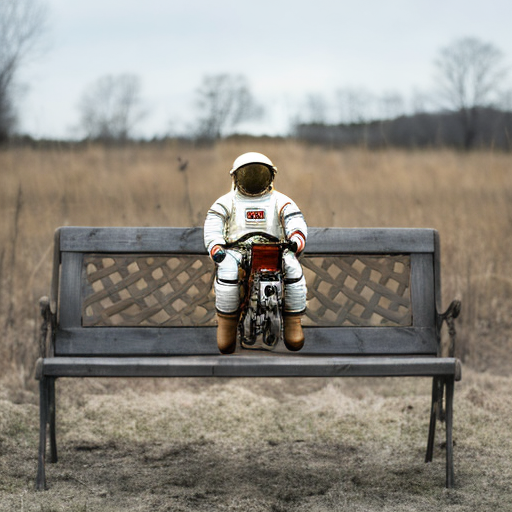
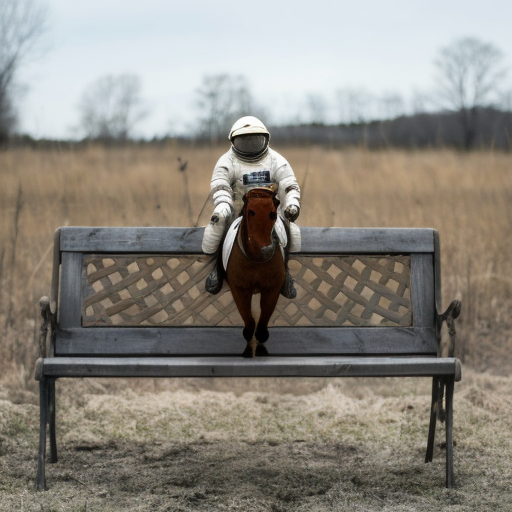
canny controlnet pipeline

Changed region(s): [[0.3438, 0.2188, 0.625, 0.9375], [0.625, 0.9688, 0.6562, 1.0]]

diff --git a/predict.py b/predict.py
@@ -5,13 +5,13 @@ from typing import List
 import time
 import datetime
 
+import cv2
+import numpy as np
+
 import torch
 from PIL import Image
 from diffusers import (
-    AutoencoderKL, 
-    StableDiffusionInpaintPipeline,
     PNDMScheduler,
-    LMSDiscreteScheduler,
     DDIMScheduler,
     EulerDiscreteScheduler,
     EulerAncestralDiscreteScheduler,
@@ -19,8 +19,14 @@ from diffusers import (
     HeunDiscreteScheduler,
 )
 
-from lora import inject_trainable_lora, monkeypatch_or_replace_lora, monkeypatch_remove_lora
+from diffusers import (
+    StableDiffusionInpaintPipeline,
+    StableDiffusionControlNetInpaintPipeline,
+    ControlNetModel,
+)
 
+from lora import inject_trainable_lora, monkeypatch_or_replace_lora, monkeypatch_remove_lora
+from controlnet_processing import apply_canny
 class KarrasDPM:
     def from_config(config):
         return DPMSolverMultistepScheduler.from_config(config, use_karras_sigmas=True)
@@ -34,6 +40,10 @@ SCHEDULERS = {
     "K_EULER_ANCESTRAL": EulerAncestralDiscreteScheduler,
     "K_EULER": EulerDiscreteScheduler,
     "PNDM": PNDMScheduler,
+}
+
+CONTROLNETS = {
+    "canny": "lllyasviel/sd-controlnet-canny",
 }
 
 MAX_SIZE = 768
@@ -84,6 +94,7 @@ class Predictor(BasePredictor):
         
     def setup(self):
         """Load the model into memory to make running multiple predictions efficient"""
+        print('loading original model')
         pipe = StableDiffusionInpaintPipeline.from_pretrained(
             MODEL_CACHE,
             torch_dtype=torch.float16,
@@ -96,6 +107,24 @@ class Predictor(BasePredictor):
             lora_path = os.path.join(MODEL_CACHE, LORA_DICT[lora_name]["filename"])
             self.loras[lora_name] = torch.load(lora_path) # to decide if we need to load it to cpu or gpu
         self.current_lora = None
+
+        print('loading controlnet')
+        self.controlnet_canny = ControlNetModel.from_pretrained(
+            CONTROLNETS["canny"], 
+            torch_dtype=torch.float16,
+            cache_dir=MODEL_CACHE,
+        )
+        
+        print('loading controlnet pipeline')
+        self.pipe_canny = StableDiffusionControlNetInpaintPipeline.from_pretrained(
+            MODEL_CACHE,
+            controlnet=self.controlnet_canny,
+            torch_dtype=torch.float16,
+            use_safetensors=True,
+            variant="fp16",
+        )
+        self.pipe_canny.enable_model_cpu_offload()
+
 
     @torch.inference_mode()
     @torch.cuda.amp.autocast()
@@ -146,6 +175,12 @@ class Predictor(BasePredictor):
             choices=SCHEDULERS.keys(),
             default="K_EULER",
         ),
+        controlnet: str = Input(
+            description="What controlnet to use",
+            choices=CONTROLNETS.keys(),
+            default=None,
+        ),
+
     ) -> List[Path]:
         """Run a single prediction on the model"""
         if seed is None:
@@ -153,7 +188,7 @@ class Predictor(BasePredictor):
         print(f"Using seed: {seed}")
 
         image = Image.open(image).convert("RGB")
-        mask = Image.open(mask).convert("RGB")
+        mask = Image.open(mask).convert("L")
 
         width, height = image.size
 
@@ -164,7 +199,6 @@ class Predictor(BasePredictor):
             "height": height,
         }
         
-        self.pipe.scheduler = SCHEDULERS[scheduler].from_config(self.pipe.scheduler.config)
         generator = torch.Generator("cuda").manual_seed(seed)
 
         # add lora if needed
@@ -176,20 +210,46 @@ class Predictor(BasePredictor):
         print()
         print('Current date and time', datetime.datetime.now())
         print('self.current_lora:', self.current_lora if self.current_lora is not None else 'None')
-        print('Running inference with LoRA:', lora if lora is not None else 'None')
         print()
         
-        output = self.pipe(
-            prompt=[prompt] * num_outputs if prompt is not None else None,
-            negative_prompt=[negative_prompt] * num_outputs
-            if negative_prompt is not None
-            else None,
-            guidance_scale=guidance_scale,
-            generator=generator,
-            num_inference_steps=num_inference_steps,
-            strength=strength,
-            **extra_kwargs,
-        )
+        if controlnet is not None:
+            print('Using controlnet:', controlnet)
+            
+            # if we want to patch the controlnet in real time
+            """self.pipe_canny.controlnet = ControlNetModel.from_pretrained(CONTROLNETS[controlnet], torch_dtype=torch.float16)
+            self.pipe_canny.controlnet.to("cuda")
+            self.pipe_canny.controlnet.eval()"""
+            self.pipe_canny.scheduler = SCHEDULERS[scheduler].from_config(self.pipe.scheduler.config)
+
+            control_image = apply_canny(image, low_threshold=100, high_threshold=200)
+            
+            output = self.pipe_canny(
+                prompt=[prompt] * num_outputs if prompt is not None else None,
+                negative_prompt=[negative_prompt] * num_outputs
+                if negative_prompt is not None
+                else None,
+                guidance_scale=guidance_scale,
+                generator=generator,
+                num_inference_steps=num_inference_steps,
+                strength=strength,
+                control_image=control_image,
+                **extra_kwargs,
+            )
+
+        else:
+            print('Using original model')
+            self.pipe.scheduler = SCHEDULERS[scheduler].from_config(self.pipe.scheduler.config)
+            output = self.pipe(
+                prompt=[prompt] * num_outputs if prompt is not None else None,
+                negative_prompt=[negative_prompt] * num_outputs
+                if negative_prompt is not None
+                else None,
+                guidance_scale=guidance_scale,
+                generator=generator,
+                num_inference_steps=num_inference_steps,
+                strength=strength,
+                **extra_kwargs,
+            )
 
         output_paths = []
         for i, sample in enumerate(output.images):

diff --git a/script/download-weights.py b/script/download-weights.py
@@ -27,8 +27,11 @@ for lora_name in LORA_FILENAMES:
     lora_path = hf_hub_download(repo_id="maidacundo/lora-arked-facades", filename=lora_name, local_dir=MODEL_CACHE, cache_dir='./.cache')
     print(f'lora_path:', lora_path)
 
+controlnet_canny = hf_hub_download(repo_id="lllyasviel/sd-controlnet-canny", filename="diffusion_pytorch_model.safetensors", cache_dir=MODEL_CACHE)
+
 print('realisticVision_path:', realisticVision_path)
 print('vae_path:', vae_path)
+print('controlnet_canny:', controlnet_canny)
 
 # Load the model into memory to make running multiple predictions efficient
 vae = AutoencoderKL.from_single_file(

diff --git a/controlnet_processing.py b/controlnet_processing.py
@@ -1,0 +1,11 @@
+import cv2 
+import numpy as np
+from PIL import Image
+
+def apply_canny(image, low_threshold=100, high_threshold=200):
+    image_np = np.array(image)
+    control_image = cv2.Canny(image_np, low_threshold, high_threshold)
+    control_image = control_image[:, :, None]
+    control_image = np.concatenate([control_image, control_image, control_image], axis=2)
+    control_image = Image.fromarray(control_image)
+    return control_image
